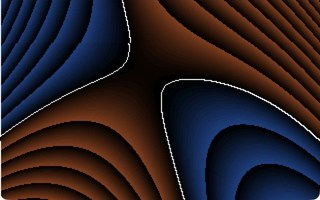
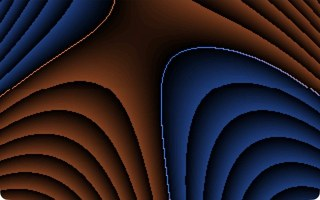
Index: ROOTS 251 B, ORDER 108 B

diff --git a/tools/render/batch.py b/tools/render/batch.py
@@ -4,7 +4,7 @@ import emu
 D = '/Users/ulfbertilsson/Downloads/'
 # name, com path, shown-as, how, step, frames, gif fps, gif size, colours
 JOBS = {
- 'ROOTS':   (D+'uber256-lab/ROOTS.COM', 'vsync', 1, 130, 25, (320, 200), 128),
+ 'ROOTS':   (D+'uber256-lab/ROOTS.COM', 'vsync', 2, 150, 25, (320, 200), 128),
  'ORDER':   (D+'uber256-lab/ORDER.COM', 'vsync', 1, 150, 25, (320, 200), 64),
  'WARP':    (D+'uber256-lab/WARP.COM', 'vsync', 3, 150, 23, (480, 300), 16),
  'LATCH':   (D+'uber256-lab/LATCH.COM', 'vsync', 2, 150, 25, (320, 200), 16),

diff --git a/INVENTORY.md b/INVENTORY.md
@@ -14,7 +14,7 @@ Previews (`docs/thumbs/NAME.jpg`) are real DOSBox captures. Five micro demos hav
 | [uber128-dos-demo](https://github.com/djayuffe/uber128-dos-demo) | one demo | v1.0.0 | 2026-10-09 | 1 |
 | [uber256-dos-intro](https://github.com/djayuffe/uber256-dos-intro) | one demo | v1.1.0 | 2026-10-09 | 1 |
 | [uber256-rotozoomer](https://github.com/djayuffe/uber256-rotozoomer) | one demo | v1.0.0 | 2026-10-09 | 1 |
-| [uber256-lab](https://github.com/djayuffe/uber256-lab) | a collection | v1.8.0 | 2026-10-11 | 11 |
+| [uber256-lab](https://github.com/djayuffe/uber256-lab) | a collection | v1.9.0 | 2026-10-11 | 11 |
 | [uber-micro-demos](https://github.com/djayuffe/uber-micro-demos) | a collection | v1.9.0 | 2026-10-10 | 30 |
 | [uber40k-dos-demo](https://github.com/djayuffe/uber40k-dos-demo) | the big show | v1.4.0 | 2026-10-08 | 1 |
 
@@ -59,8 +59,8 @@ Also in the family but not counted above (no `.COM` in a current release): [uber
 | <img src="docs/thumbs/SELFTEX.jpg" width="96" alt="SELFTEX"> | 77 | `SELFTEX.COM` | [uber256-lab](https://github.com/djayuffe/uber256-lab) | Each pixel is a byte of the program's own machine code, picked by `x*y/64 + time`. The hyperbolic bands you see are the code. |
 | <img src="docs/thumbs/UBER128.jpg" width="96" alt="UBER128"> | 77 | `UBER128.COM` | [uber128-dos-demo](https://github.com/djayuffe/uber128-dos-demo) | rainbow rings flowing out of the screen centre |
 | <img src="docs/thumbs/LATCH.jpg" width="96" alt="LATCH"> | 82 | `LATCH.COM` | [uber256-lab](https://github.com/djayuffe/uber256-lab) | A rule-60 cellular automaton (Sierpinski waterfalls) computed by the VGA graphics controller: each byte read loads 8 pixels x 4 planes into the latches, each write puts them back one row up with an XOR colour applied by the hardware. |
+| <img src="docs/thumbs/ORDER.jpg" width="96" alt="ORDER"> | 108 | `ORDER.COM` | [uber256-lab](https://github.com/djayuffe/uber256-lab) | Three cheap expressions per pixel (hyperbolas, vertical lines, horizontal lines) are never drawn; only which of the six orderings they are in is, so the screen is a set of regions whose boundaries fold and collide as time moves. |
 | <img src="docs/thumbs/FIRE.jpg" width="96" alt="FIRE"> | 123 | `FIRE.COM` | [uber256-lab](https://github.com/djayuffe/uber256-lab) | Framebuffer feedback: each pixel becomes the average of four pixels below it, minus a little, with random heat injected at the bottom. A smoky turbulent fire, no FPU. |
-| <img src="docs/thumbs/ORDER.jpg" width="96" alt="ORDER"> | 123 | `ORDER.COM` | [uber256-lab](https://github.com/djayuffe/uber256-lab) | Three cheap expressions per pixel (hyperbolas, vertical lines, horizontal lines) are never drawn; only which of the six orderings they are in is, so the screen is a set of regions whose boundaries fold and collide as time moves. |
 | <img src="docs/thumbs/MOIRE.jpg" width="96" alt="MOIRE"> | 131 | `MOIRE.COM` | [uber256-dos-intro](https://github.com/djayuffe/uber256-dos-intro) | two ring families, one orbiting the other, XORed into a moire |
 | <img src="docs/thumbs/ESCHER.jpg" width="96" alt="ESCHER"> | 137 | `ESCHER.COM` | [uber256-lab](https://github.com/djayuffe/uber256-lab) | The picture is drawn once; after that only the CRT controller's start address and line-compare registers move, folding a hyperbolic texture into an impossible patchwork. No pixel is ever redrawn. |
 | <img src="docs/thumbs/JULIA.jpg" width="96" alt="JULIA"> | 161 | `JULIA.COM` | [uber256-lab](https://github.com/djayuffe/uber256-lab) | A Julia set in 8.8 fixed point. Its constant circles on a Minsky oscillator, so the fractal continually changes shape. No FPU, no sine table. |
@@ -68,7 +68,7 @@ Also in the family but not counted above (no `.COM` in a current release): [uber
 | <img src="docs/thumbs/GALAXY.jpg" width="96" alt="GALAXY"> | 205 | `GALAXY.COM` | [uber256-lab](https://github.com/djayuffe/uber256-lab) | A de Jong strange attractor drawn as a glowing, fading, slowly morphing cloud. The orbit also tunes the PC speaker. |
 | <img src="docs/thumbs/CLIFF.jpg" width="96" alt="CLIFF"> | 210 | `CLIFF.COM` | [uber256-lab](https://github.com/djayuffe/uber256-lab) | The same engine with Clifford-attractor equations and parameters: two curling wings over a web of caustics. |
 | <img src="docs/thumbs/CHLADNI.jpg" width="96" alt="CHLADNI"> | 224 | `CHLADNI.COM` | [uber256-lab](https://github.com/djayuffe/uber256-lab) | The nodal lines of a vibrating plate, `sin(ax)sin(by) - sin(bx)sin(ay) = 0`, with drifting mode numbers that also tune the speaker. |
-| <img src="docs/thumbs/ROOTS.jpg" width="96" alt="ROOTS"> | 232 | `ROOTS.COM` | [uber256-lab](https://github.com/djayuffe/uber256-lab) | Polynomial root migration: the white curves are where a cubic in x and y changes sign; as one coefficient sweeps, the roots migrate, pinch into a crossing and reconnect the other way. Warm and cool contour bands show the sign. |
+| <img src="docs/thumbs/ROOTS.jpg" width="96" alt="ROOTS"> | 251 | `ROOTS.COM` | [uber256-lab](https://github.com/djayuffe/uber256-lab) | Polynomial root migration: the bright curves are where a cubic in x and y changes sign; as two coefficients sweep at different speeds, the roots migrate, pinch into crossings and reconnect, in new places each time. Warm and cool contour bands show the sign. |
 | <img src="docs/thumbs/UBERSHOW.jpg" width="96" alt="UBERSHOW"> | 11,179 | `UBERSHOW.COM` | [uber40k-dos-demo](https://github.com/djayuffe/uber40k-dos-demo) | 20-scene show: 3D engine, starfield, scroller, Sound Blaster FM music |
 
 ## Size classes

diff --git a/README.md b/README.md
@@ -24,7 +24,7 @@ Everything here runs in [DOSBox](https://www.dosbox.com/) (or on VGA hardware); 
 | <img src="docs/uber8.jpg" width="220"> | **[UBER10](https://github.com/djayuffe/uber10-dos-demo)** | **10 bytes** | 16 | the 256 CP437 glyphs scrolling at a readable pace, with sound |
 | <img src="docs/selftex.jpg" width="220"> | **[SELFTEX](https://github.com/djayuffe/uber256-lab)** | **77 bytes** | 128 | the program's own machine code, used as a scrolling texture |
 | <img src="docs/uber128.jpg" width="220"> | **[UBER128](https://github.com/djayuffe/uber128-dos-demo)** | **77 bytes** | 128 | rainbow rings flowing out of the screen centre |
-| <img src="docs/order.jpg" width="220"> | **[ORDER](https://github.com/djayuffe/uber256-lab)** | **123 bytes** | 128 | regions defined only by which of six orderings three cheap expressions are in: boundaries fold and collide as time moves |
+| <img src="docs/order.jpg" width="220"> | **[ORDER](https://github.com/djayuffe/uber256-lab)** | **108 bytes** | 128 | regions defined only by which of six orderings three cheap expressions are in: boundaries fold and collide as time moves |
 | <img src="docs/fire.jpg" width="220"> | **[FIRE](https://github.com/djayuffe/uber256-lab)** | **123 bytes** | 128 | framebuffer-feedback fire with a generated palette and an LCG noise source |
 | <img src="docs/moire.jpg" width="220"> | **[MOIRE](https://github.com/djayuffe/uber256-dos-intro)** | **131 bytes** | 256 | two ring families, one orbiting the other, XORed into a moire |
 | <img src="docs/escher.jpg" width="220"> | **[ESCHER](https://github.com/djayuffe/uber256-lab)** | **137 bytes** | 256 | the picture is drawn once; only the CRT controller's start address and line compare move, folding a hyperbolic texture into an impossible patchwork |
@@ -34,7 +34,7 @@ Everything here runs in [DOSBox](https://www.dosbox.com/) (or on VGA hardware); 
 | <img src="docs/uber256.jpg" width="220"> | **[UBER256](https://github.com/djayuffe/uber256-rotozoomer)** | **171 bytes** | 256 | an XOR rotozoomer with no multiplies and no sine table |
 | <img src="docs/galaxy.jpg" width="220"> | **[GALAXY](https://github.com/djayuffe/uber256-lab)** | **205 bytes** | 256 | a de Jong strange attractor on the x87 FPU, glowing, fading and morphing |
 | <img src="docs/chladni.jpg" width="220"> | **[CHLADNI](https://github.com/djayuffe/uber256-lab)** | **224 bytes** | 256 | the nodal lines of a vibrating plate on the FPU, with drifting mode numbers that also tune the speaker |
-| <img src="docs/roots.jpg" width="220"> | **[ROOTS](https://github.com/djayuffe/uber256-lab)** | **232 bytes** | 256 | the roots of a moving cubic as white curves that migrate, cross and reconnect |
+| <img src="docs/roots.jpg" width="220"> | **[ROOTS](https://github.com/djayuffe/uber256-lab)** | **251 bytes** | 256 | the roots of a moving cubic as bright curves that migrate, cross and reconnect |
 | <img src="docs/cliff.jpg" width="220"> | **[CLIFF](https://github.com/djayuffe/uber256-lab)** | **210 bytes** | 256 | the same engine with Clifford-attractor equations |
 | <img src="docs/ubershow.jpg" width="220"> | **[UBERSHOW](https://github.com/djayuffe/uber40k-dos-demo)** | **11,179 bytes** | 40K | a 20-scene show: a real 3D engine, a lookup-table effects engine, kick-synced effects and Sound Blaster FM music |
 
